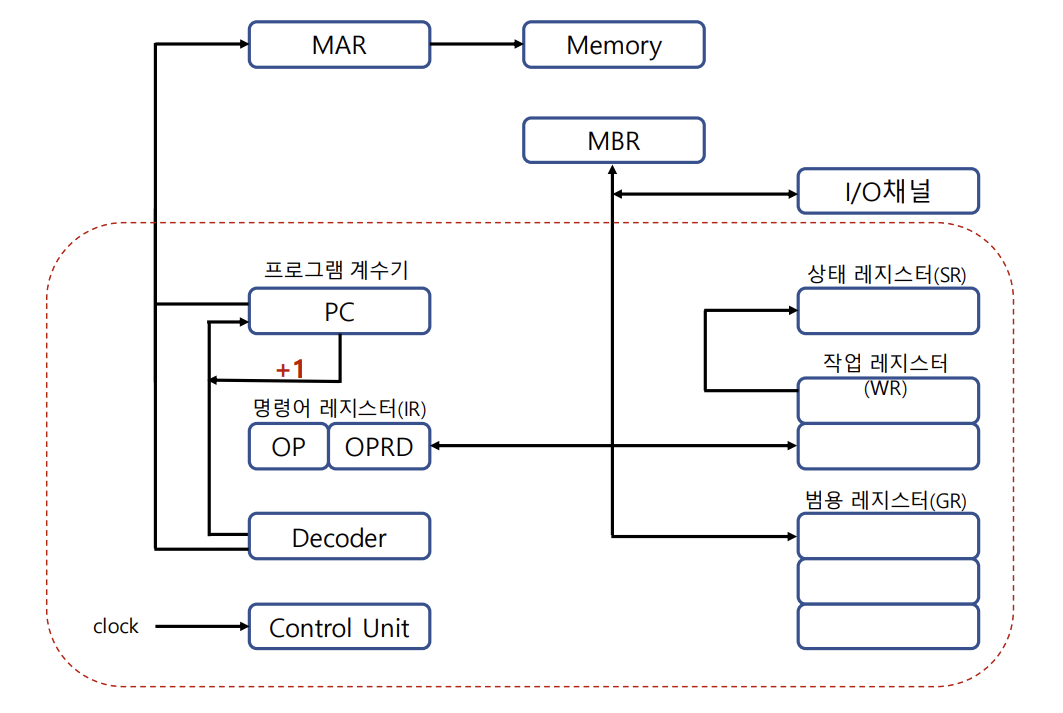
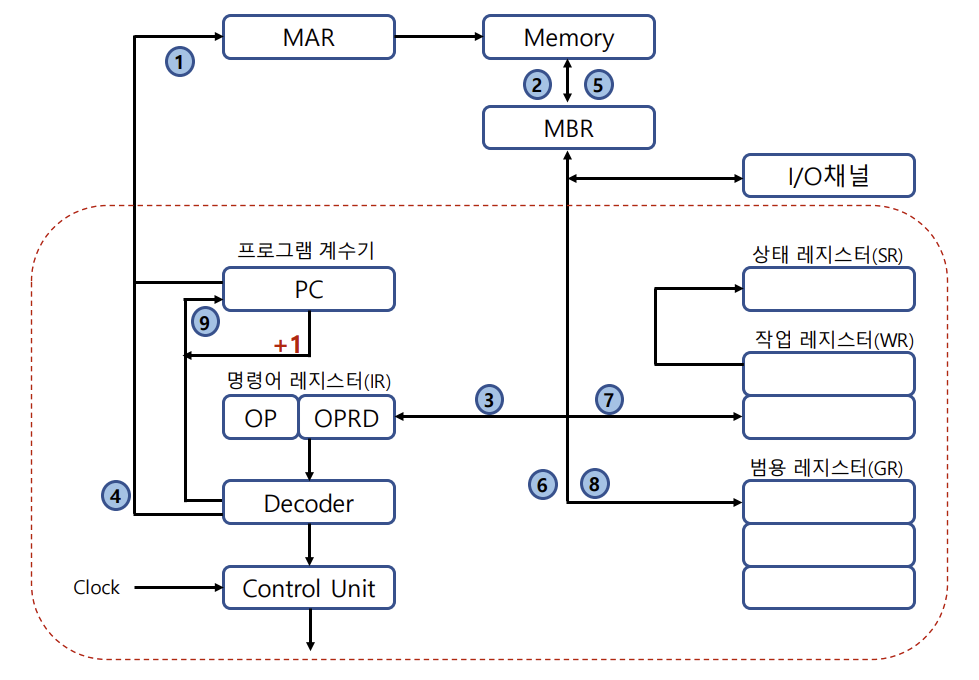
update computer structure chatper3-1

diff --git a/computer_structure/chpater3/01. CPU 와 레지스터.md b/computer_structure/chpater3/01. CPU 와 레지스터.md
@@ -15,3 +15,55 @@ CPU는 Register Set, ALU(Arithmetic Logic Unit), Control Unit 으로 구성됨
 - Control Unit: Register Set간 정보 전송 감시, ALU 에게 수행할 동작 지시
 
 ![cpu](../images/ch3-1_cpu.png)
+
+
+
+## Register
+
+### PC(Program Counter)
+
+프로그램 계수기는 다음에 수행될 명령어가 들어있는 주기억장치의 주소를 기억하고 있는 레지스터
+
+IC(Instruction Counter, 명령어계수기) 혹은 LC(Location Counter) 라고도 부름
+
+
+
+### IR(Instruction Register)
+
+명령어 레지스터는 프로그램 계수기가 지정하는 주소에 기억되어있는 명령어를 해독하기 위해 임시 기억하는 레지스터
+
+
+
+### ID(Instruction Decoder)
+
+명령어 해독기는 IR에 들어있는 명령코드의 해석을 담당하는 논리 회로
+
+여기서 해석이란 각종 명령 코드를 제어신호화하여 기계 사이클로 전송하는 것을 의미
+
+
+
+### Control Unit
+
+제어장치는 ID로부터 보내져온 신호에 따라 명령어를 실행(clock에 의해 발생)
+
+
+
+### GPR(GR, General Purpose Register)
+
+범용 레지스터는 작업 레지스터에서 data가 용이하게 처리되도록 임시로 자료를 저장하는 경우 사용
+
+
+
+### WR(Working Register)
+
+작업 레지스터는 산술논리연산을 실행할 수 있도록 자료를 저장하고 그 결과를 저장
+
+GPR과의 차이점은 ALU에 연결되어있는지 유무
+
+
+
+### SR(Status Register)
+
+상태 레지스터는 CPU의 상태를 나타내는 특수목적의 레지스터
+
+연산결과의 상태, 영 Z(zero), 부호 S(sign), 오버플로우 V(overflow), 캐리 C(carry), 인터럽트 I(interrupt)
